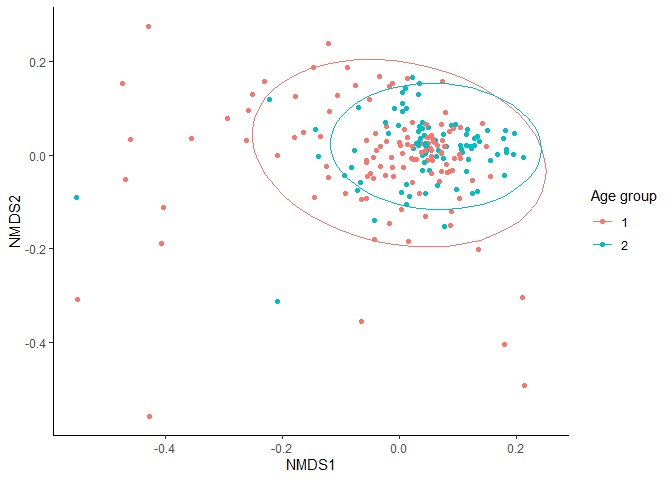
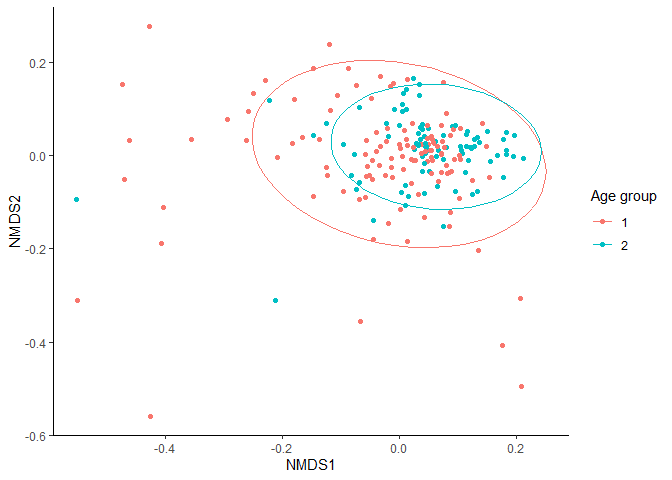
Upload

diff --git a/1_metaphlan3_analysis.md b/1_metaphlan3_analysis.md
@@ -952,42 +952,40 @@ BRAY_NMDS_relab_SPE=metaMDS(beta_div_relab_bray, k=2,trymax=30)
 ```
 
     ## Run 0 stress 0.2394775 
-    ## Run 1 stress 0.2425353 
-    ## Run 2 stress 0.2416314 
-    ## Run 3 stress 0.2462542 
-    ## Run 4 stress 0.2396685 
-    ## ... Procrustes: rmse 0.009573006  max resid 0.08588761 
-    ## Run 5 stress 0.2451973 
-    ## Run 6 stress 0.2396511 
-    ## ... Procrustes: rmse 0.004159187  max resid 0.05157973 
-    ## Run 7 stress 0.2405528 
-    ## Run 8 stress 0.2428821 
-    ## Run 9 stress 0.2524142 
-    ## Run 10 stress 0.2476465 
-    ## Run 11 stress 0.2462557 
-    ## Run 12 stress 0.2444917 
-    ## Run 13 stress 0.2402754 
-    ## Run 14 stress 0.2395614 
-    ## ... Procrustes: rmse 0.003933354  max resid 0.04275597 
-    ## Run 15 stress 0.23956 
-    ## ... Procrustes: rmse 0.003774621  max resid 0.04278757 
-    ## Run 16 stress 0.2443337 
-    ## Run 17 stress 0.2401067 
-    ## Run 18 stress 0.2450222 
-    ## Run 19 stress 0.2396571 
-    ## ... Procrustes: rmse 0.009297059  max resid 0.0920567 
-    ## Run 20 stress 0.2408425 
-    ## Run 21 stress 0.2426335 
-    ## Run 22 stress 0.2497399 
-    ## Run 23 stress 0.2395625 
-    ## ... Procrustes: rmse 0.003037255  max resid 0.03310332 
-    ## Run 24 stress 0.2478737 
-    ## Run 25 stress 0.2427849 
-    ## Run 26 stress 0.2438679 
-    ## Run 27 stress 0.2429152 
-    ## Run 28 stress 0.2415974 
-    ## Run 29 stress 0.2569905 
-    ## Run 30 stress 0.2446639 
+    ## Run 1 stress 0.2394776 
+    ## ... Procrustes: rmse 0.001342804  max resid 0.01325997 
+    ## Run 2 stress 0.2581808 
+    ## Run 3 stress 0.2446643 
+    ## Run 4 stress 0.2431509 
+    ## Run 5 stress 0.240479 
+    ## Run 6 stress 0.2410045 
+    ## Run 7 stress 0.2571839 
+    ## Run 8 stress 0.2456569 
+    ## Run 9 stress 0.2462127 
+    ## Run 10 stress 0.2425744 
+    ## Run 11 stress 0.2420801 
+    ## Run 12 stress 0.2529363 
+    ## Run 13 stress 0.2536345 
+    ## Run 14 stress 0.2395604 
+    ## ... Procrustes: rmse 0.00373738  max resid 0.04279012 
+    ## Run 15 stress 0.2490423 
+    ## Run 16 stress 0.2452456 
+    ## Run 17 stress 0.2435405 
+    ## Run 18 stress 0.2405536 
+    ## Run 19 stress 0.2437459 
+    ## Run 20 stress 0.2528236 
+    ## Run 21 stress 0.2415986 
+    ## Run 22 stress 0.2414386 
+    ## Run 23 stress 0.2396585 
+    ## ... Procrustes: rmse 0.009352904  max resid 0.09236033 
+    ## Run 24 stress 0.2453754 
+    ## Run 25 stress 0.2414289 
+    ## Run 26 stress 0.2428442 
+    ## Run 27 stress 0.2436264 
+    ## Run 28 stress 0.2438926 
+    ## Run 29 stress 0.2413141 
+    ## Run 30 stress 0.2395624 
+    ## ... Procrustes: rmse 0.003947754  max resid 0.04283603 
     ## *** No convergence -- monoMDS stopping criteria:
     ##     11: no. of iterations >= maxit
     ##     19: stress ratio > sratmax
@@ -1070,49 +1068,48 @@ JAC_NMDS_relab_SPE=metaMDS(beta_div_relab_jaccard,k=2,trymax=30)
 ```
 
     ## Run 0 stress 0.1875643 
-    ## Run 1 stress 0.1981147 
-    ## Run 2 stress 0.1978564 
-    ## Run 3 stress 0.1980911 
-    ## Run 4 stress 0.187544 
+    ## Run 1 stress 0.192978 
+    ## Run 2 stress 0.1967093 
+    ## Run 3 stress 0.2003402 
+    ## Run 4 stress 0.2070886 
+    ## Run 5 stress 0.1956265 
+    ## Run 6 stress 0.2006637 
+    ## Run 7 stress 0.1965186 
+    ## Run 8 stress 0.2018448 
+    ## Run 9 stress 0.1991011 
+    ## Run 10 stress 0.1914026 
+    ## Run 11 stress 0.1964559 
+    ## Run 12 stress 0.1930787 
+    ## Run 13 stress 0.2091986 
+    ## Run 14 stress 0.1960436 
+    ## Run 15 stress 0.1953311 
+    ## Run 16 stress 0.1988018 
+    ## Run 17 stress 0.2028475 
+    ## Run 18 stress 0.2001787 
+    ## Run 19 stress 0.194994 
+    ## Run 20 stress 0.1913556 
+    ## Run 21 stress 0.1911913 
+    ## Run 22 stress 0.2039343 
+    ## Run 23 stress 0.1924176 
+    ## Run 24 stress 0.2090328 
+    ## Run 25 stress 0.1885738 
+    ## Run 26 stress 0.1875255 
     ## ... New best solution
-    ## ... Procrustes: rmse 0.001936578  max resid 0.01917824 
-    ## Run 5 stress 0.196166 
-    ## Run 6 stress 0.2043258 
-    ## Run 7 stress 0.1875426 
-    ## ... New best solution
-    ## ... Procrustes: rmse 0.001537325  max resid 0.01867634 
-    ## Run 8 stress 0.2007504 
-    ## Run 9 stress 0.1923612 
-    ## Run 10 stress 0.196097 
-    ## Run 11 stress 0.1925057 
-    ## Run 12 stress 0.1888493 
-    ## Run 13 stress 0.1977337 
-    ## Run 14 stress 0.1980392 
-    ## Run 15 stress 0.1904409 
-    ## Run 16 stress 0.1908963 
-    ## Run 17 stress 0.1971459 
-    ## Run 18 stress 0.201916 
-    ## Run 19 stress 0.1901817 
-    ## Run 20 stress 0.1903933 
-    ## Run 21 stress 0.196793 
-    ## Run 22 stress 0.1975401 
-    ## Run 23 stress 0.4168381 
-    ## Run 24 stress 0.2106805 
-    ## Run 25 stress 0.2050815 
-    ## Run 26 stress 0.1990921 
-    ## Run 27 stress 0.1969141 
-    ## Run 28 stress 0.1945157 
-    ## Run 29 stress 0.1902582 
-    ## Run 30 stress 0.2014027 
+    ## ... Procrustes: rmse 0.003226238  max resid 0.02894185 
+    ## Run 27 stress 0.1984838 
+    ## Run 28 stress 0.1955699 
+    ## Run 29 stress 0.1904734 
+    ## Run 30 stress 0.2008447 
     ## *** No convergence -- monoMDS stopping criteria:
-    ##     10: no. of iterations >= maxit
-    ##     20: stress ratio > sratmax
+    ##     12: no. of iterations >= maxit
+    ##     17: stress ratio > sratmax
+    ##      1: scale factor of the gradient < sfgrmin
 
 ``` r
 JAC_NMDS_relab_SPE$stress 
 ```
 
-    ## [1] 0.1875426
+    ## [1] 0.1875255
 
 ``` r
 #Plotting
@@ -1186,38 +1183,39 @@ Ait_NMDS_relab_SPE=metaMDS(beta_div_relab_ait,k=2,trymax=30)
 ```
 
     ## Run 0 stress 0.2177323 
-    ## Run 1 stress 0.2352042 
-    ## Run 2 stress 0.2228992 
-    ## Run 3 stress 0.2310001 
-    ## Run 4 stress 0.2268438 
-    ## Run 5 stress 0.2411524 
-    ## Run 6 stress 0.2335715 
-    ## Run 7 stress 0.2246008 
-    ## Run 8 stress 0.2333673 
-    ## Run 9 stress 0.2346433 
-    ## Run 10 stress 0.2285337 
-    ## Run 11 stress 0.2232951 
-    ## Run 12 stress 0.2272686 
-    ## Run 13 stress 0.2237968 
-    ## Run 14 stress 0.2261283 
-    ## Run 15 stress 0.2330967 
-    ## Run 16 stress 0.2227301 
-    ## Run 17 stress 0.416836 
-    ## Run 18 stress 0.2330722 
-    ## Run 19 stress 0.2269406 
-    ## Run 20 stress 0.2291589 
-    ## Run 21 stress 0.2355369 
-    ## Run 22 stress 0.2325738 
-    ## Run 23 stress 0.2269579 
-    ## Run 24 stress 0.2330689 
-    ## Run 25 stress 0.2284225 
-    ## Run 26 stress 0.2284804 
-    ## Run 27 stress 0.231556 
-    ## Run 28 stress 0.2249567 
-    ## Run 29 stress 0.2284001 
-    ## Run 30 stress 0.2263223 
+    ## Run 1 stress 0.2318496 
+    ## Run 2 stress 0.2318032 
+    ## Run 3 stress 0.2276403 
+    ## Run 4 stress 0.23974 
+    ## Run 5 stress 0.2315524 
+    ## Run 6 stress 0.4167481 
+    ## Run 7 stress 0.233758 
+    ## Run 8 stress 0.2267976 
+    ## Run 9 stress 0.4168379 
+    ## Run 10 stress 0.2374451 
+    ## Run 11 stress 0.2389345 
+    ## Run 12 stress 0.2383911 
+    ## Run 13 stress 0.2309761 
+    ## Run 14 stress 0.2309437 
+    ## Run 15 stress 0.2312548 
+    ## Run 16 stress 0.2448189 
+    ## Run 17 stress 0.2247684 
+    ## Run 18 stress 0.2196336 
+    ## Run 19 stress 0.2323543 
+    ## Run 20 stress 0.2291732 
+    ## Run 21 stress 0.2271237 
+    ## Run 22 stress 0.2305894 
+    ## Run 23 stress 0.2294846 
+    ## Run 24 stress 0.2278968 
+    ## Run 25 stress 0.2311706 
+    ## Run 26 stress 0.24074 
+    ## Run 27 stress 0.2382075 
+    ## Run 28 stress 0.223095 
+    ## Run 29 stress 0.2303622 
+    ## Run 30 stress 0.2253251 
     ## *** No convergence -- monoMDS stopping criteria:
-    ##     30: stress ratio > sratmax
+    ##     29: stress ratio > sratmax
+    ##      1: scale factor of the gradient < sfgrmin
 
 ``` r
 Ait_NMDS_relab_SPE$stress
@@ -1304,40 +1302,8 @@ ps_relab <- readRDS(paste0(path, "humann3_processed_output/Phyloseq/","ps_relab_
 count <- as.data.frame(t(otu_table(ps_count)))
 relab <- as.data.frame(t(otu_table(ps_relab)))
 
-#Count data
+#Relab data
 #Subset based on highest mean and variance
-step1 <- count[ ,colMeans(count) >= quantile(colMeans(count), 0.5)]
-dim(step1) #reduced to 275 taxa
-```
-
-    ## [1] 207 275
-
-``` r
-step2 <- apply(step1, 2, var)
-step2 <- step1[ ,step2 >= quantile( step2, 0.50) ]
-dim(step2) #reduced to 138 taxa
-```
-
-    ## [1] 207 138
-
-``` r
-ps_count_sub_mean_var <- prune_taxa(colnames(step2),ps_count)
-saveRDS(ps_count_sub_mean_var, paste0(path, "humann3_processed_output/Phyloseq/", "ps_count_50mean_50var.rds"))
-
-#Subset based on zero proportion:
-non <- nonzero(step2)
-for_analysis <- non$nonzero.p[non$nonzero.p>0.25]
-step3 <- step2[,names(for_analysis)]
-dim(step3) #reduced to 77 taxa
-```
-
-    ## [1] 207  77
-
-``` r
-ps_count_sub_mean_var_zero <- prune_taxa(colnames(step3),ps_count)
-saveRDS(ps_count_sub_mean_var_zero, paste0(path, "humann3_processed_output/Phyloseq/", "ps_count_50mean_50var_zero.rds"))
-
-##Relative abundance data
 step1 <- relab[ ,colMeans(relab) >= quantile(colMeans(relab), 0.5)]
 dim(step1) #reduced to 275 taxa
 ```
@@ -1356,10 +1322,11 @@ dim(step2) #reduced to 138 taxa
 ps_relab_sub_mean_var <- prune_taxa(colnames(step2),ps_relab)
 saveRDS(ps_relab_sub_mean_var, paste0(path, "humann3_processed_output/Phyloseq/", "ps_relab_50mean_50var.rds"))
 
+#Subset based on zero proportion:
 non <- nonzero(step2)
 for_analysis <- non$nonzero.p[non$nonzero.p>0.25]
 step3 <- step2[,names(for_analysis)]
-dim(step3) #reduced to 77 taxa
+dim(step3) #reduced to 75 taxa
 ```
 
     ## [1] 207  75
@@ -1368,45 +1335,54 @@ dim(step3) #reduced to 77 taxa
 ps_relab_sub_mean_var_zero <- prune_taxa(colnames(step3),ps_relab)
 saveRDS(ps_relab_sub_mean_var_zero, paste0(path, "humann3_processed_output/Phyloseq/", "ps_relab_50mean_50var_zero.rds"))
 
+##Keep the same taxa in the count dataset
+ps_count_sub_mean_var <- prune_taxa(colnames(step2),ps_count)
+saveRDS(ps_count_sub_mean_var, paste0(path, "humann3_processed_output/Phyloseq/", "ps_count_50mean_50var.rds"))
+
+ps_count_sub_mean_var_zero <- prune_taxa(colnames(step3),ps_count)
+saveRDS(ps_count_sub_mean_var_zero, paste0(path, "humann3_processed_output/Phyloseq/", "ps_count_50mean_50var_zero.rds"))
+
 #Evaluate: Zeros, dispersion
 #Mean:
 mean(apply(otu_table(ps_count_sub_mean_var_zero), 1, FUN=mean))
 ```
 
-    ## [1] 109155.4
+    ## [1] 111728
 
 ``` r
 #Variance:
 mean(apply(otu_table(ps_count_sub_mean_var_zero), 1, FUN=stats::var))
 ```
 
-    ## [1] 412702211278
+    ## [1] 423677304029
 
 ``` r
 #Zero proportion:
 mean(apply(otu_table(ps_count_sub_mean_var_zero), 1, function(x) sum(x==0)/207))
 ```
 
-    ## [1] 0.4317711
+    ## [1] 0.4342673
 
 ``` r
 sd(apply(otu_table(ps_count_sub_mean_var_zero), 1, function(x) sum(x==0)/207))
 ```
 
-    ## [1] 0.1974061
+    ## [1] 0.1985949
 
 ``` r
 #Mean to variance ratio:
 mean(apply(otu_table(ps_count_sub_mean_var_zero), 1, function(x) var(x)/mean(x)))
 ```
 
-    ## [1] 955222.4
+    ## [1] 976942.2
 
 ``` r
 sd(apply(otu_table(ps_count_sub_mean_var_zero), 1, function(x) var(x)/mean(x)))
 ```
 
-    ## [1] 1818325
+    ## [1] 1837766
+
+Plot distributions to get a feeling of the data:
 
 ``` r
 ps_count <- readRDS(paste0(path, "humann3_processed_output/Phyloseq/","ps_count_filtered.rds"))
